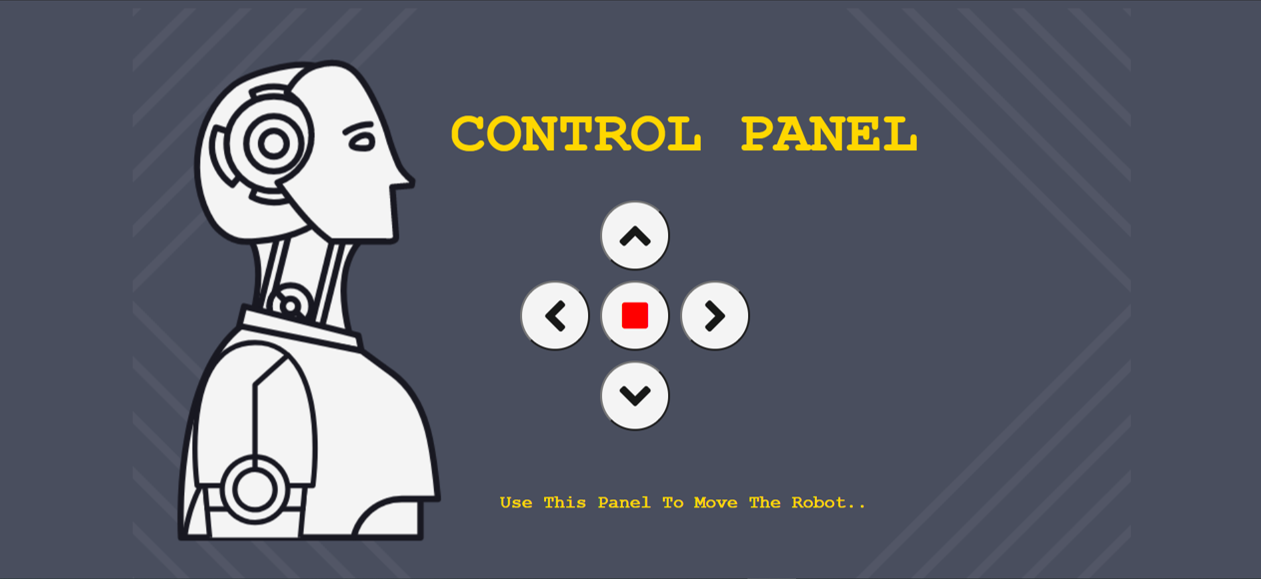
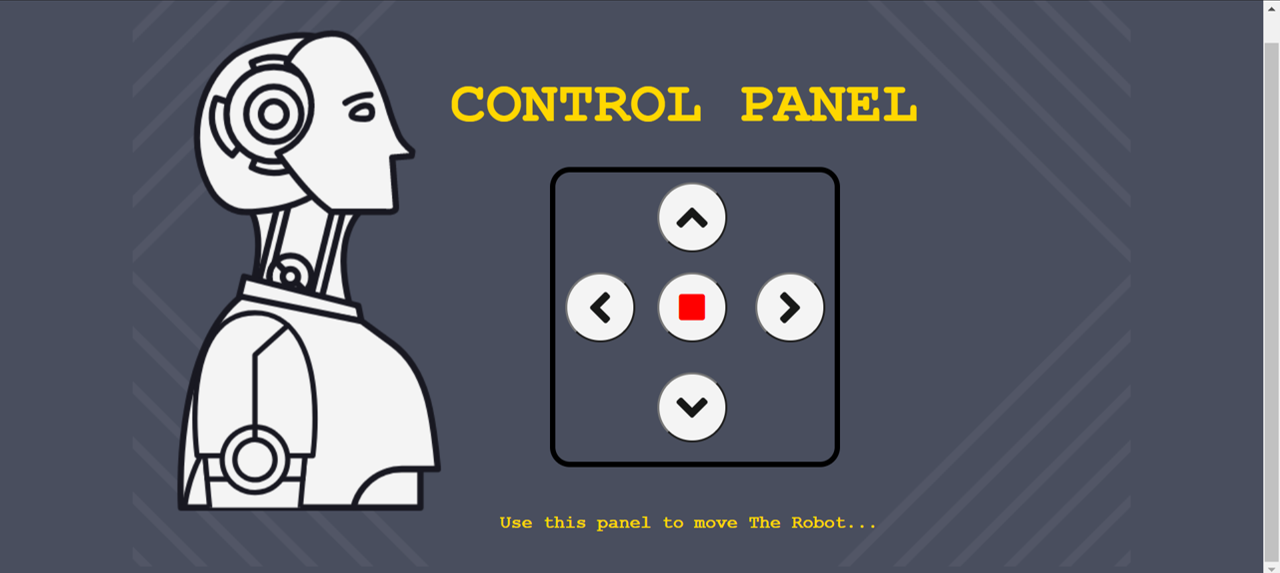
Upadte code and photo

diff --git a/TASK1-2.html b/TASK1-2.html
@@ -16,15 +16,13 @@
             }
 
             h6{
-                 color:   #ffd700;
+                 color:  #ffd700;
                  font-family: 'Courier New', Courier, monospace;
                  font-weight: bold;
                  font-size: 18px;
-                 text-transform: capitalize;
                  position: absolute;
-                 border-radius: 12px;
                  left:500px;
-                 top:450px;
+                 top:500px;
              }
         
              h2{
@@ -32,9 +30,7 @@
                  font-family: 'Courier New', Courier, monospace;
                  font-weight: bold;
                  font-size: 60px;
-                 text-transform: capitalize;
-                 position: absolute;
-                 border-radius: 12px;
+                 position: absolute;x
                  left:450px;
                  top:50px;
 
@@ -72,34 +68,45 @@
 
             .Btop{
                 position: absolute;
-                left:600px;
-                top:200px;
+                left:102px;
+                top:10px;
             }
 
             .Bright{
                 position: absolute;
-                left:680px;
-                top:280px;  
+                left:200px;
+                top:100px;  
             }
             .Bleft{
                 position: absolute;
-                left:520px;
-                top:280px;  
+                left:10px;
+                top:100px;  
             }
             .Bdown{
                 position: absolute;
-                left:600px;
-                top:360px;  
+                left:102px;
+                top:200px;  
             }
             .Bstop{
                 position: absolute;
-                left:600px;
-                top:280px; 
+                left:102px;
+                top:100px;  
+
             }
 
             .img{
                 width: 80%;
                 height: 100%;
+            }
+
+            #box{
+                border: 5px solid black;
+                border-radius: 20px;
+                width: 280px;
+                height: 290px;
+                position: absolute;
+                top: 180px;
+                left:550px;
             }
         </style>
     </head>
@@ -115,13 +122,15 @@
     <!-- CONTROL PANLE BUTTON -->
     <div> 
         <h2>CONTROL PANEL</h2>  
-        <button  class="button Btop"> <i class='fas' style="font-size:50px;">&#xf106;</i> </button> 
-        <button  class="button Bleft"><i class='fas' style="font-size:50px;">&#xf104;</i> </button>
-        <button  class="button Bright"><i class='fas' style="font-size:50px;">&#xf105;</i></button>
-        <button  class="button Bdown"><i class='fas' style="font-size:50px;">&#xf107;</i></button>
-
-        <button  class="button Bstop"><i class="fa fa-stop" style="font-size:30px; color:red;"></i></button>
-        <h6>Use this panel to move The Robot..</h6>
+            <p id="box">
+                <button  class="button Btop"> <i class='fas' style="font-size:50px;">&#xf106;</i> </button> 
+                <button  class="button Bleft"><i class='fas' style="font-size:50px;">&#xf104;</i> </button>
+                <button  class="button Bright"><i class='fas' style="font-size:50px;">&#xf105;</i></button>
+                <button  class="button Bdown"><i class='fas' style="font-size:50px;">&#xf107;</i></button>
+                <button  class="button Bstop"><i class="fa fa-stop" style=" font-size:30px; color: red;"></i></button> 
+            </p>
+        <h6>Use this panel to move The Robot...</h6>   
+       
     </div>
            
     

diff --git a/TASK1.html b/TASK1.html
@@ -22,11 +22,8 @@
              h6{
                  color:  black;
                  font-family: 'Courier New', Courier, monospace;
-                 font-weight: bold;
                  font-size: 18px;
-                 text-transform: capitalize;
                  position: absolute;
-                 border-radius: 12px;
                  left:660px;
                  top:550px;
              }
@@ -34,10 +31,8 @@
              h2{
                  color:  rgb(16,104,119);
                  font-family: 'Courier New', Courier, monospace;
-                 font-weight: bold;
                  font-size: 50px;
                  position: absolute;
-                 border-radius: 12px;
                  left:650px;
                  top:180px;
              }
@@ -107,7 +102,8 @@
                 left:500px;
             }
             
-          
+            
+
         </style>
     </head>
 
@@ -124,25 +120,14 @@
 
          <!-- CONTROL PANLE BUTTON -->
         <div> 
-            <h2>CONTROL PANEL</h2>  
-            <button  class="button Btop"> <i class='fas' style="font-size:50px;">&#xf106;</i> </button> 
-        <button  class="button Bleft"><i class='fas' style="font-size:50px;">&#xf104;</i> </button>
-        <button  class="button Bright"><i class='fas' style="font-size:50px;">&#xf105;</i></button>
-        <button  class="button Bdown"><i class='fas' style="font-size:50px;">&#xf107;</i></button>
-
-        <button  class="button Bstop"><i class="fa fa-stop" style=" font-size:30px;"></i></button>
-        <h6>Use this panel to move The Robot...</h6>
-    
-    </div>
-
-        
-
-        <!--
-    -->    
-    
-
-        
-           
+                <h2>CONTROL PANEL</h2>  
+                <button  class="button Btop"> <i class='fas' style="font-size:50px;">&#xf106;</i> </button> 
+                <button  class="button Bleft"><i class='fas' style="font-size:50px;">&#xf104;</i> </button>
+                <button  class="button Bright"><i class='fas' style="font-size:50px;">&#xf105;</i></button>
+                <button  class="button Bdown"><i class='fas' style="font-size:50px;">&#xf107;</i></button>
+                <button  class="button Bstop"><i class="fa fa-stop" style=" font-size:30px;"></i></button>
+                <h6>Use this panel to move The Robot...</h6>
+    </div>           
     </body>
 
 </html>
